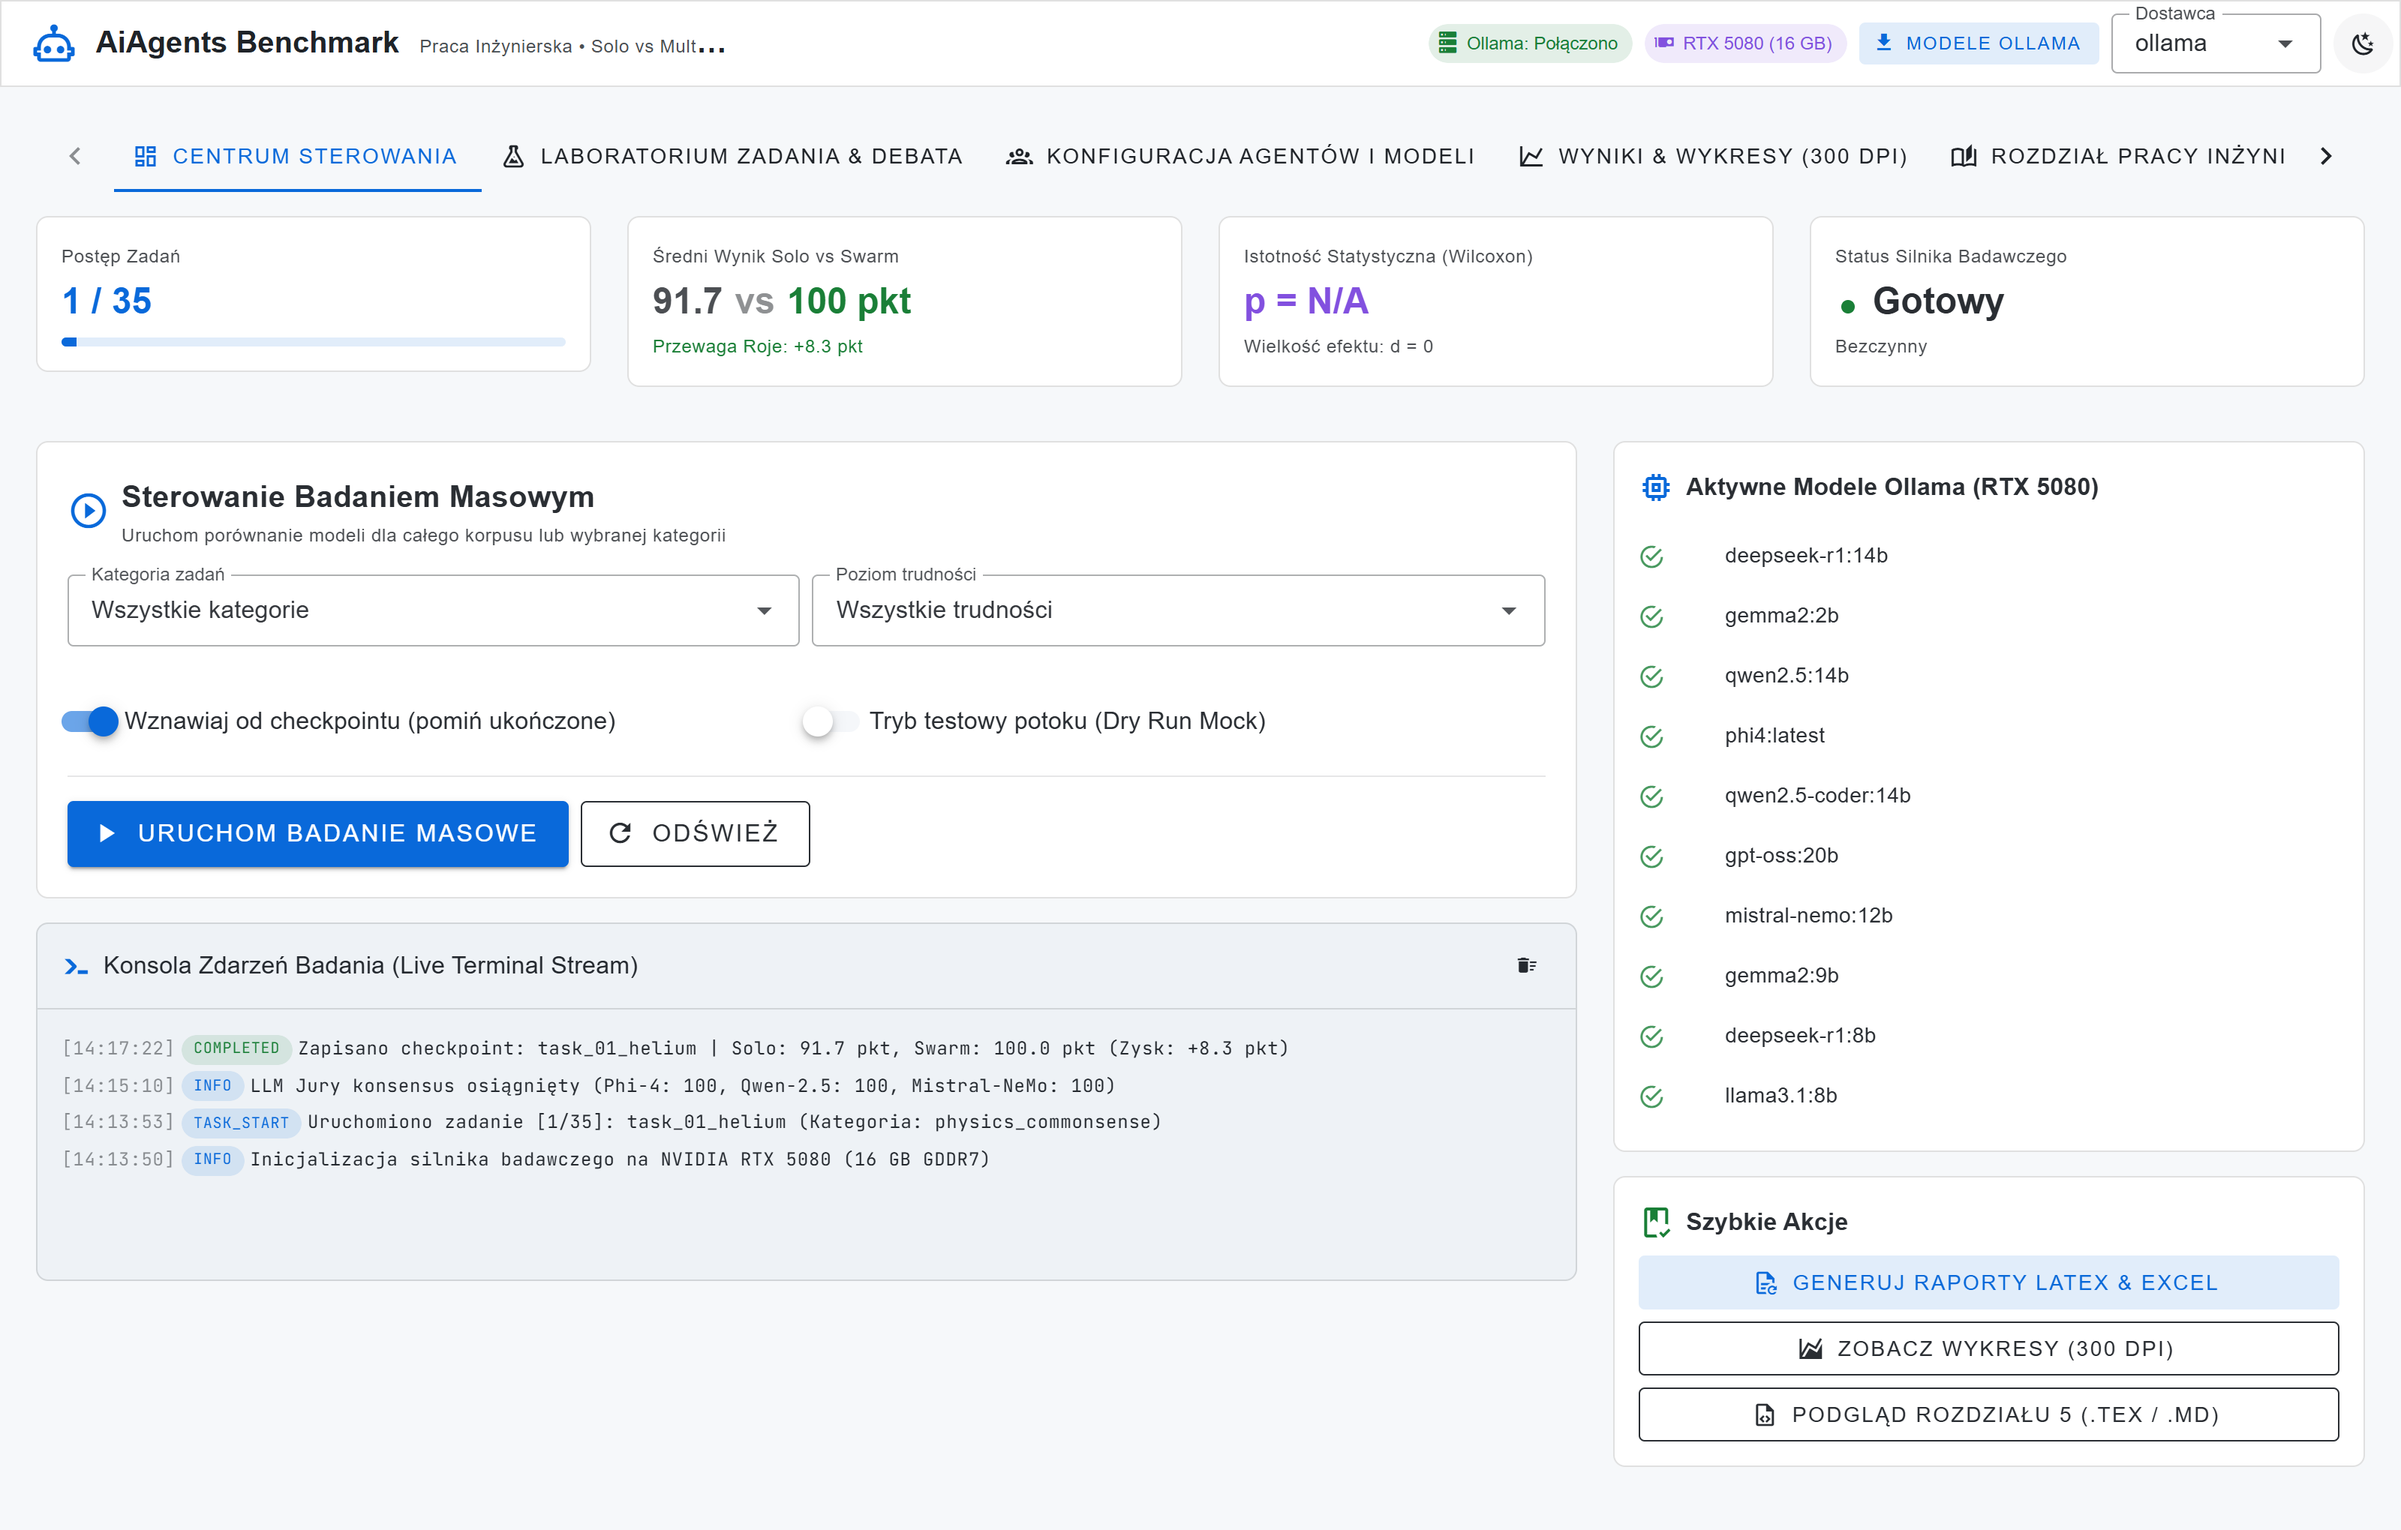
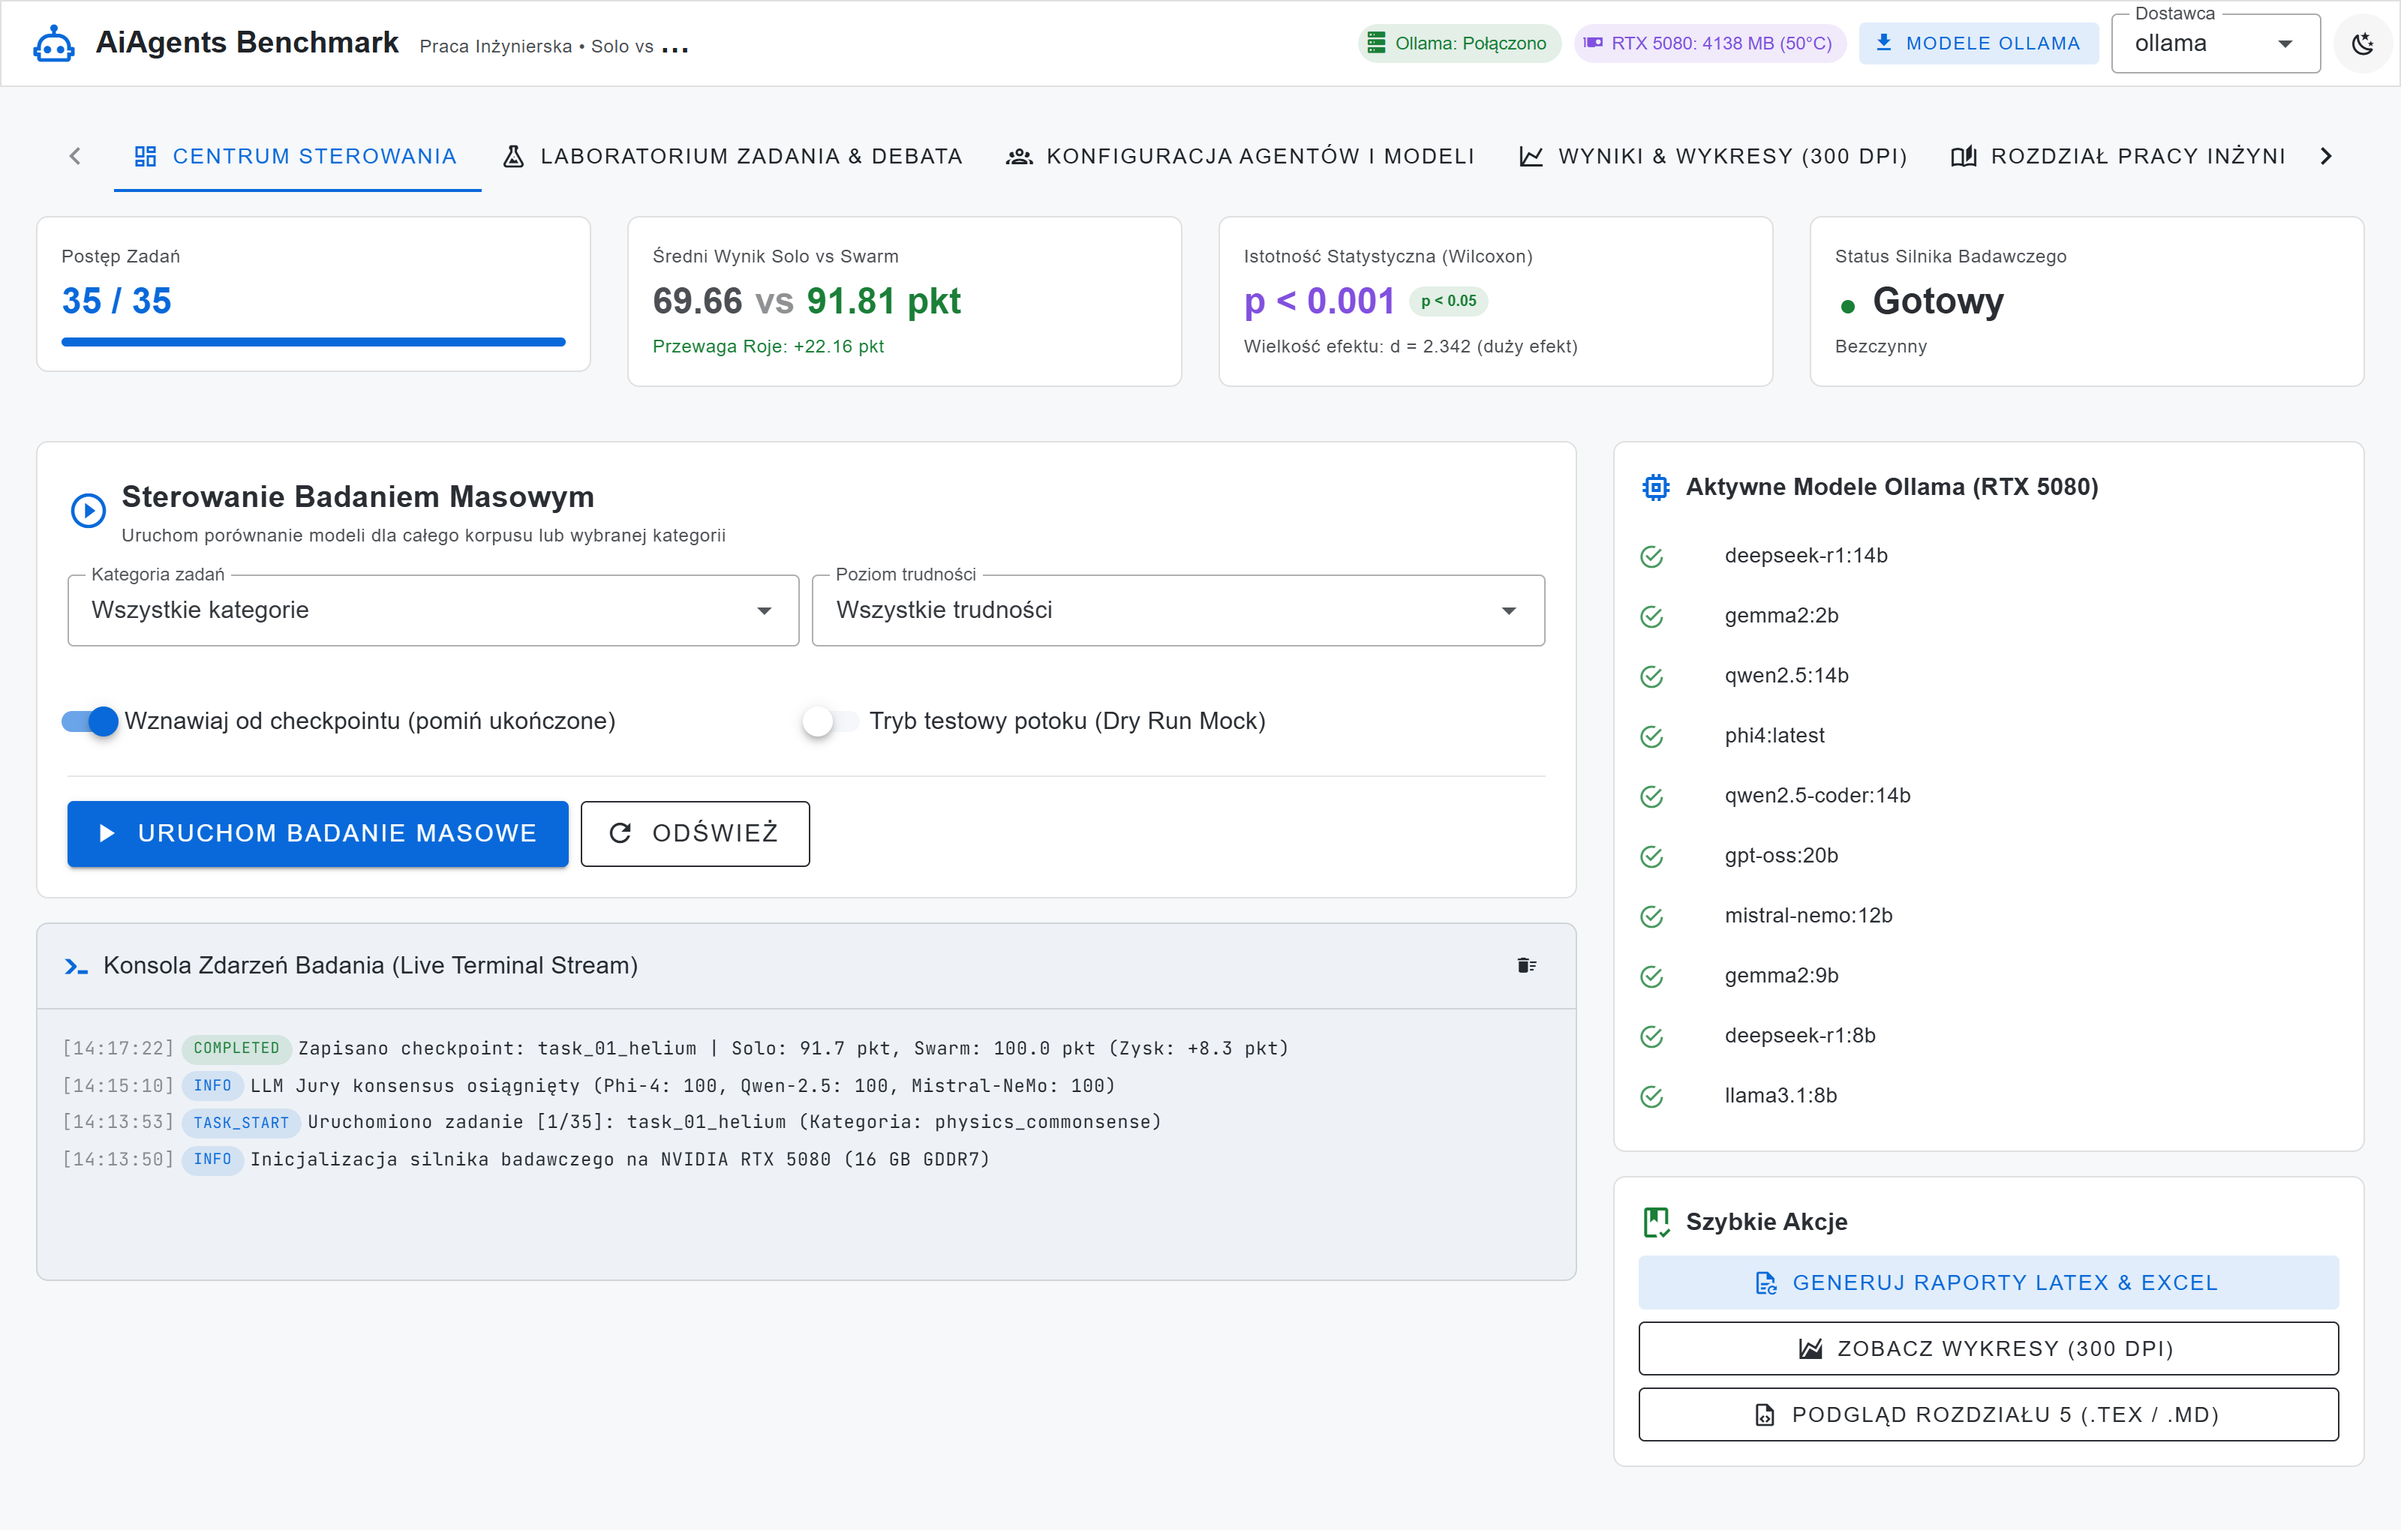
Enhance Pareto cost-effect chart and statistical cards, update publication screenshots

diff --git a/frontend/src/App.vue b/frontend/src/App.vue
@@ -130,11 +130,12 @@
               <v-col cols="12" sm="6" md="3">
                 <v-card border elevation="0" class="pa-4 rounded-lg">
                   <div class="text-caption text-medium-emphasis">Istotność Statystyczna (Wilcoxon)</div>
-                  <div class="text-h5 font-weight-bold mt-1 text-accent">
-                    p = {{ stats.wilcoxon_pvalue != null ? stats.wilcoxon_pvalue : 'N/A' }}
+                  <div class="text-h5 font-weight-bold mt-1 text-accent d-flex align-center">
+                    p {{ stats.wilcoxon_pvalue != null ? (stats.wilcoxon_pvalue < 0.001 ? '< 0.001' : '= ' + stats.wilcoxon_pvalue) : 'N/A' }}
+                    <v-chip v-if="stats.wilcoxon_pvalue != null && stats.wilcoxon_pvalue < 0.05" size="x-small" color="success" class="ml-2 font-weight-bold">p &lt; 0.05</v-chip>
                   </div>
                   <div class="text-caption text-medium-emphasis mt-1">
-                    Wielkość efektu: d = {{ stats.cohens_d != null ? stats.cohens_d : 'N/A' }}
+                    Wielkość efektu: d = {{ stats.cohens_d != null ? stats.cohens_d : 'N/A' }} {{ (stats.cohens_d || 0) >= 0.8 ? '(duży efekt)' : '' }}
                   </div>
                 </v-card>
               </v-col>

diff --git a/results/reports/tabela_wynikow.tex b/results/reports/tabela_wynikow.tex
@@ -1,15 +1,49 @@
 \begin{table}[htbp]
 \centering
 \small
-\caption{Szczegółowe wyniki porównania Solo ReAct vs Multi-Agent Swarm (N=1)}
+\caption{Szczegółowe wyniki porównania Solo ReAct vs Multi-Agent Swarm (N=35)}
 \label{tab:benchmark_wyniki_szczegolowe}
 \begin{tabular}{lccccc}
 \hline
 \textbf{Zadanie} & \textbf{Trudność} & \textbf{Solo Score} & \textbf{Multi Score} & \textbf{Czas Solo} & \textbf{Czas Multi} \\
 \hline
-task\_01\_helium & Easy & 92 & \textbf{100} & 20.4s & 148.7s \\
+task\_01\_helium & Easy & 77 & \textbf{99} & 22.0s & 116.5s \\
+task\_02\_monty\_hall\_100 & Medium & 66 & \textbf{89} & 6.7s & 101.4s \\
+task\_03\_fibonacci\_sum & Medium & 64 & \textbf{91} & 19.0s & 47.9s \\
+task\_04\_collatz\_conjecture & Hard & 55 & \textbf{88} & 21.3s & 151.5s \\
+task\_05\_strawberry & Easy & 87 & \textbf{92} & 17.5s & 122.5s \\
+task\_06\_relativity & Medium & 67 & \textbf{89} & 7.1s & 146.4s \\
+task\_07\_code\_injection & Easy & 85 & \textbf{96} & 21.1s & 97.6s \\
+task\_08\_probability\_boy & Hard & 65 & \textbf{86} & 8.2s & 143.5s \\
+task\_09\_logic\_grid & Medium & 75 & \textbf{95} & 19.8s & 62.8s \\
+task\_10\_trick\_math & Easy & 89 & \textbf{96} & 8.0s & 63.4s \\
+task\_11\_log\_parsing & Medium & 75 & \textbf{85} & 22.0s & 140.9s \\
+task\_12\_subnetting & Medium & 63 & \textbf{97} & 20.6s & 113.0s \\
+task\_13\_10000th\_prime & Medium & 60 & \textbf{92} & 21.7s & 66.7s \\
+task\_14\_crypto\_base64\_xor & Medium & 72 & \textbf{92} & 11.8s & 65.1s \\
+task\_15\_cve\_osint & Easy & 85 & \textbf{95} & 20.8s & 71.6s \\
+task\_16\_obfuscated\_code & Easy & 82 & \textbf{96} & 8.4s & 77.2s \\
+task\_17\_cron\_logic & Medium & 57 & \textbf{86} & 20.5s & 117.5s \\
+task\_18\_json\_data\_extraction & Easy & 75 & \textbf{93} & 7.5s & 47.6s \\
+task\_19\_graph\_routing & Hard & 59 & \textbf{87} & 16.9s & 157.6s \\
+task\_20\_vigenere\_crypto & Hard & 62 & \textbf{91} & 23.3s & 79.2s \\
+task\_21\_complex\_compound\_interest & Hard & 70 & \textbf{82} & 16.9s & 79.8s \\
+task\_22\_regex\_ipv4\_validation & Medium & 60 & \textbf{92} & 22.1s & 71.2s \\
+task\_23\_anagram\_groups & Medium & 69 & \textbf{92} & 17.6s & 130.5s \\
+task\_24\_noise\_data\_sanitization & Easy & 85 & \textbf{99} & 23.1s & 109.6s \\
+task\_25\_perfect\_numbers & Hard & 64 & \textbf{86} & 13.7s & 147.8s \\
+task\_26\_sundays\_20th\_century & Medium & 64 & \textbf{95} & 10.3s & 112.0s \\
+task\_27\_fsharp\_minor\_frequencies & Hard & 43 & \textbf{89} & 19.4s & 135.5s \\
+task\_28\_local\_finance\_margin & Medium & 71 & \textbf{97} & 9.5s & 48.4s \\
+task\_29\_local\_incident\_response & Medium & 57 & \textbf{93} & 8.4s & 100.7s \\
+task\_30\_local\_project\_gamma\_access & Easy & 86 & \textbf{98} & 7.9s & 157.2s \\
+task\_31\_osint\_heartbleed\_cve & Easy & 85 & \textbf{97} & 13.6s & 67.6s \\
+task\_32\_knapsack\_optimization & Hard & 65 & \textbf{88} & 19.4s & 75.8s \\
+task\_33\_jwt\_token\_decoding & Medium & 63 & \textbf{88} & 17.6s & 47.5s \\
+task\_34\_monte\_carlo\_pi & Medium & 64 & \textbf{94} & 16.3s & 60.0s \\
+task\_35\_sql\_injection\_defense & Medium & 71 & \textbf{89} & 15.5s & 117.5s \\
 \hline
-\textbf{ŚREDNIA} & - & \textbf{91.7} & \textbf{100.0} & - & - \\
+\textbf{ŚREDNIA} & - & \textbf{69.66} & \textbf{91.81} & - & - \\
 \hline
 \end{tabular}
 \end{table}

diff --git a/src/visualization/plots.py b/src/visualization/plots.py
@@ -173,13 +173,25 @@ class BenchmarkVisualizer:
     def plot_pareto_cost_score(cls, df: pd.DataFrame, save_path: Path):
         fig, ax = plt.subplots(figsize=(8, 6))
 
-        ax.scatter(df["solo_cost_usd"], df["score_solo"], color="#718096", alpha=0.7, s=60, label="Solo ReAct")
-        ax.scatter(df["multi_cost_usd"], df["score_multi_final"], color="#38A169", alpha=0.7, s=60, label="Multi-Agent")
+        if not df.empty and "solo_cost_usd" in df and "multi_cost_usd" in df:
+            ax.scatter(df["solo_cost_usd"], df["score_solo"], color="#718096", alpha=0.7, s=65, label="Solo ReAct (Zadania)", edgecolors="black", linewidths=0.5)
+            ax.scatter(df["multi_cost_usd"], df["score_multi_final"], color="#38A169", alpha=0.75, s=75, label="Multi-Agent Swarm (Zadania)", edgecolors="black", linewidths=0.5)
 
-        ax.set_title("Analiza Koszt-Efekt: Wynik vs Koszt (USD)")
-        ax.set_xlabel("Koszt Wykonania Zadania (USD)")
-        ax.set_ylabel("Wynik Punktowy (0-100)")
-        ax.legend()
+            solo_c_mean = float(df["solo_cost_usd"].mean())
+            solo_s_mean = float(df["score_solo"].mean())
+            multi_c_mean = float(df["multi_cost_usd"].mean())
+            multi_s_mean = float(df["score_multi_final"].mean())
+
+            ax.scatter(solo_c_mean, solo_s_mean, color="#2D3748", marker="D", s=130, label=f"Średnia Solo (${solo_c_mean:.4f}, {solo_s_mean:.1f} pkt)", edgecolors="white", linewidths=1.5, zorder=5)
+            ax.scatter(multi_c_mean, multi_s_mean, color="#22543D", marker="D", s=130, label=f"Średnia Swarm (${multi_c_mean:.4f}, {multi_s_mean:.1f} pkt)", edgecolors="white", linewidths=1.5, zorder=5)
+
+        ax.set_title("Analiza Koszt-Efekt: Jakość Rozwiązania vs Koszt Tokenów (USD)", fontsize=12, fontweight="bold")
+        ax.set_xlabel("Szacowany Koszt Zadania (USD)", fontsize=10)
+        ax.set_ylabel("Wynik Punktowy (0-100)", fontsize=10)
+        ax.set_ylim(0, 105)
+        ax.set_xlim(left=0)
+        ax.grid(True, linestyle="--", alpha=0.45)
+        ax.legend(loc="lower right", framealpha=0.9)
 
         plt.tight_layout()
         fig.savefig(save_path, dpi=300)

diff --git a/results/reports/tabela_statystyk.tex b/results/reports/tabela_statystyk.tex
@@ -6,13 +6,13 @@
 \hline
 \textbf{Parametr / Test Statystyczny} & \textbf{Wartość Statystyki} & \textbf{Interpretacja} \\
 \hline
-Liczebność próby ($N$) & 1 & Liczba zbadanych zadań \\
-Różnica średnich ($\Delta$) & 8.3 pkt & Przewaga roju agentów \\
-Rozmiar efektu (Cohen's $d$) & nan & Efekt ustandaryzowany \\
+Liczebność próby ($N$) & 35 & Liczba zbadanych zadań \\
+Różnica średnich ($\Delta$) & 22.16 pkt & Przewaga roju agentów \\
+Rozmiar efektu (Cohen's $d$) & 2.342 & Efekt ustandaryzowany \\
 Wskaźnik zwycięstw (Win Rate) & 100.0\% & Wygrane zadania Multi \\
-Test t-Studenta (sparowany, $p$-value) & N/A & Istotny: N/A \\
-Test rang znakowanych Wilcoxona ($p$-value) & N/A & Istotny: N/A \\
-Zgodność sędziów (Jury Std Dev) & 0.0 pkt & Rozrzut ocen panelu \\
+Test t-Studenta (sparowany, $p$-value) & 0.0 & Istotny: True \\
+Test rang znakowanych Wilcoxona ($p$-value) & 0.0 & Istotny: True \\
+Zgodność sędziów (Jury Std Dev) & 2.49 pkt & Rozrzut ocen panelu \\
 \hline
 \multicolumn{3}{l}{\footnotesize * Poziom istotności $\alpha = 0.05$. Test Wilcoxona odporny na brak normalności rozkładu.} \\
 \hline

diff --git a/results/reports/tabela_kategorii.tex b/results/reports/tabela_kategorii.tex
@@ -6,7 +6,18 @@
 \hline
 \textbf{Kategoria} & \textbf{N} & \textbf{Solo} & \textbf{Multi} & \textbf{Delta} & \textbf{Czas Solo} & \textbf{Czas Multi} \\
 \hline
-Physics Commonsense & 1 & 91.7 & 100.0 & \textbf{+8.3} & 20.4s & 148.7s \\
+Algorithms Graph & 2 & 61.8 & 87.5 & \textbf{+25.7} & 18.1s & 116.7s \\
+Appsec Code Review & 1 & 70.9 & 89.2 & \textbf{+18.3} & 15.5s & 117.5s \\
+Coding Analytics & 4 & 69.6 & 90.4 & \textbf{+20.8} & 13.1s & 92.5s \\
+Coding Logic & 3 & 76.7 & 95.4 & \textbf{+18.7} & 22.1s & 92.8s \\
+Coding Math & 6 & 62.2 & 89.8 & \textbf{+27.6} & 18.8s & 112.0s \\
+Cryptography Coding & 3 & 71.9 & 92.9 & \textbf{+21.0} & 14.5s & 73.8s \\
+Math Probability & 3 & 65.0 & 89.5 & \textbf{+24.5} & 10.4s & 101.6s \\
+Physics Commonsense & 3 & 77.9 & 94.4 & \textbf{+16.5} & 12.3s & 108.8s \\
+Pure Logic & 1 & 74.8 & 94.8 & \textbf{+20.0} & 19.8s & 62.8s \\
+Rag Local Docs & 3 & 71.1 & 96.1 & \textbf{+25.0} & 8.6s & 102.1s \\
+Sysadmin Security & 4 & 64.6 & 89.2 & \textbf{+24.6} & 20.2s & 104.7s \\
+Web Osint & 2 & 85.2 & 96.2 & \textbf{+11.0} & 17.2s & 69.6s \\
 \hline
 \end{{tabular}}
 \end{{table}}

diff --git a/src/cli.py b/src/cli.py
@@ -137,3 +137,8 @@ def draft_chapter():
     md_path, tex_path = ThesisChapterGenerator.generate(reports_dir, df, stats)
     console.print(f"[bold green][OK] Wygenerowano szkic rozdziału Markdown:[/bold green] {md_path}")
     console.print(f"[bold green][OK] Wygenerowano szkic rozdziału LaTeX:[/bold green] {tex_path}")
+
+
+if __name__ == "__main__":
+    app()
+
